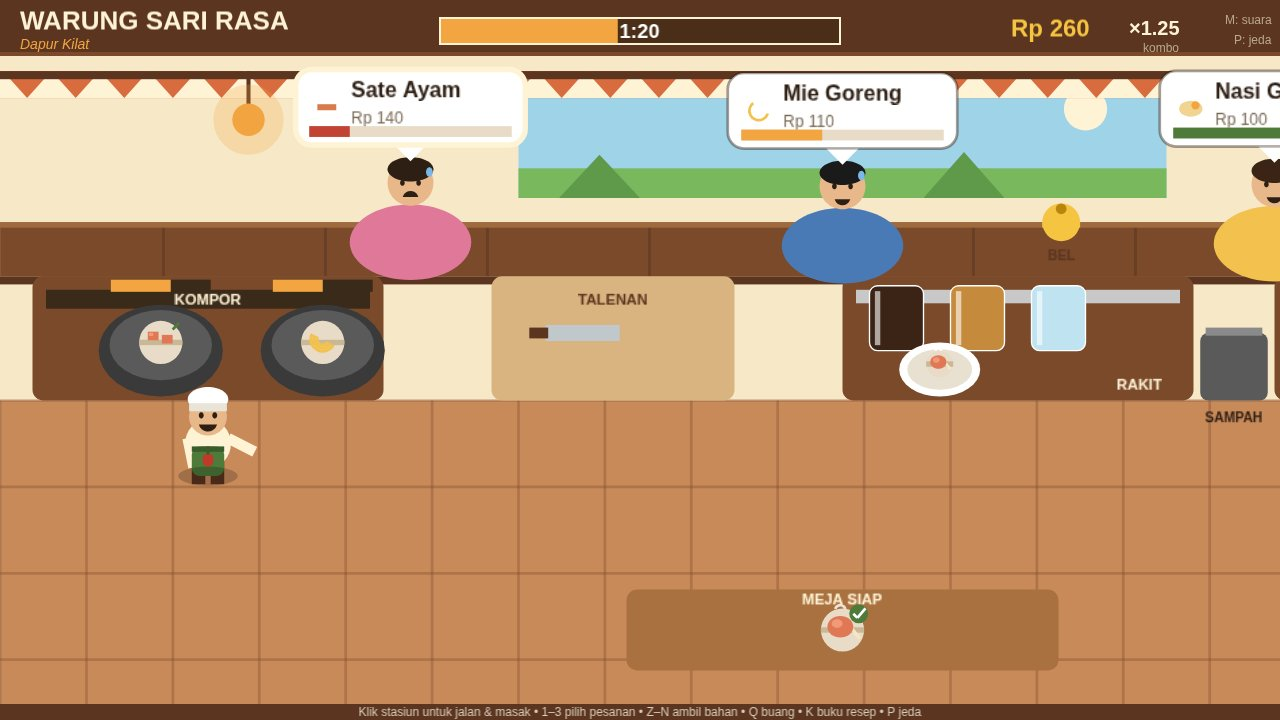
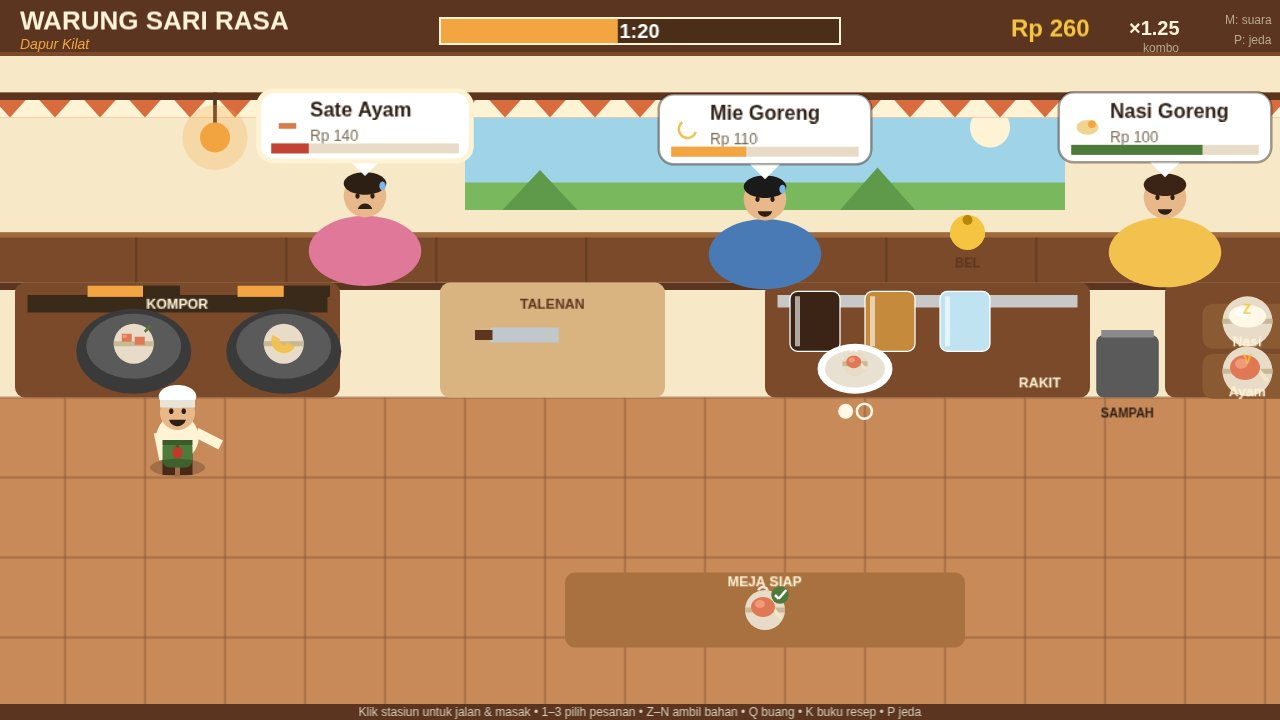
fix: READY tag + glow on window plates, bell click serves, burnGrace 5, shot-4 camera 1.25x, step dots on plating plate

diff --git a/game/src/render.js b/game/src/render.js
@@ -14,7 +14,7 @@ import { createCook, syncCook, createCustomers, syncCustomers } from './drawchar
 import { buildHUD, syncHUD } from './hud.js';
 import { recipeBookEntries } from './recipebook.js';
 import { burnerProgress } from './stove.js';
-import { requiredComponents } from './plating.js';
+import { requiredComponents, plateTargetDish } from './plating.js';
 import { gCircle, gEllipse, gRect, gRoundRect, gTriangle, gLine, gArc, gCircleStroke } from './gfx.js';
 
 const FONT = '"Trebuchet MS", Verdana, sans-serif';
@@ -154,6 +154,18 @@ export function buildScene(scene, state) {
     world.add(status);
     burnerBars.push({ bg, fill, status });
   }
+  // READY tags for the window plates (2 Texts, one per slot). Created once
+  // here, positioned + shown/hidden in syncScene (property sets only).
+  // Bold green, 14 px, white stroke so the tag reads at judge scale (60%).
+  const readyTags = [];
+  for (let i = 0; i < 2; i++) {
+    const t = scene.add.text(0, 0, 'READY', { fontFamily: FONT, fontSize: '14px', fontStyle: 'bold', color: '#2E7D32' });
+    t.setOrigin(0.5, 0.5);
+    t.setStroke('#FFFFFF', 2);
+    t.setVisible(false);
+    world.add(t);
+    readyTags.push(t);
+  }
   // Cook + customers.
   const cook = createCook(scene);
   world.add(cook.container);
@@ -190,7 +202,7 @@ export function buildScene(scene, state) {
   const hud = buildHUD(scene);
   const overlays = buildOverlays(scene);
   return {
-    world, bgG, dynG, burnerBars, cook, customers, particlePool, floatPool,
+    world, bgG, dynG, burnerBars, readyTags, cook, customers, particlePool, floatPool,
     hud, overlays, labels,
     lastDyn: {
       ticketIds: [-1, -1, -1], burnerItems: [false, false],
@@ -308,14 +320,40 @@ function redrawDynamic(view, state) {
       if (plate.finisher) {
         gCircle(g, cx + 22, cy - 12, 5, plate.finisher === 'kecap' ? '#3A1F10' : plate.finisher === 'sambal' ? '#C0392B' : '#7A5A2B');
       }
+      // Step dots under the plate (design §5): filled = steps done,
+      // outline = steps left. Total = the target dish's components +
+      // its finisher (if any); the picky skip is honoured when the plate
+      // is being built for a picky ticket. Dots sit below the plate —
+      // the finisher bottles stand directly above it.
+      const dish = plateTargetDish(state, plate);
+      if (dish) {
+        const ticket = state.tickets.find((t) => t && t.dish === dish);
+        const need = ticket ? requiredComponents(ticket) : null;
+        const total = need ? need.items.length + (need.finisher ? 1 : 0)
+          : RECIPES[dish].plate.length + (RECIPES[dish].finisher ? 1 : 0);
+        const filled = plate.items.length + (plate.finisher ? 1 : 0);
+        if (total > 0) {
+          const dotY = z.y + z.h + 12;
+          const gap = 15;
+          const x0 = cx - ((total - 1) * gap) / 2;
+          for (let d = 0; d < total; d++) {
+            const dx = x0 + d * gap;
+            if (d < filled) gCircle(g, dx, dotY, 6, '#FFF8E7');
+            else gCircleStroke(g, dx, dotY, 6, '#FFF8E7', 2);
+          }
+        }
+      }
     }
   });
-  // Window plates (READY) + a gold diamond marker above each.
+  // Window plates (READY): a soft green glow under the dish + the gold
+  // diamond marker above it. The "READY" text tag itself is a Text object
+  // (view.readyTags), positioned in syncScene — Graphics cannot draw text.
   state.windowPlates.forEach((wp, i) => {
     if (!wp) return;
     const z = ZONES.windowPlates[i];
     const cx = z.x + z.w / 2;
     const cy = z.y + z.h / 2;
+    gEllipse(g, cx, cy + 6, 64, 34, 'rgba(78,122,58,0.4)');
     drawDish(g, wp.dish, cx, cy + 4, 26);
     gTriangle(g, cx - 8, cy - 24, cx, cy - 34, cx + 8, cy - 24, PALETTE.gold);
     gTriangle(g, cx - 8, cy - 24, cx, cy - 14, cx + 8, cy - 24, PALETTE.gold);
@@ -414,6 +452,16 @@ export function syncScene(view, state, dt) {
     } else {
       bar.status.setText('');
     }
+  });
+  // READY tags above the window plates (property sets only). A tag shows
+  // exactly when its slot holds a finished plate; its position follows
+  // the plate zone, so it survives the shot-4 camera zoom (world child).
+  state.windowPlates.forEach((wp, i) => {
+    const tag = view.readyTags[i];
+    if (!wp) { tag.setVisible(false); return; }
+    const z = ZONES.windowPlates[i];
+    tag.setVisible(true);
+    tag.setPosition(z.x + z.w / 2, z.y - 18);
   });
   // Cook + customers (pose math lives in drawcharacter.js).
   syncCook(view.cook, state, state.time);

diff --git a/game/src/main.js b/game/src/main.js
@@ -231,6 +231,15 @@ function doServeWindowPlate(slot) {
   advancePrompt('serve');
 }
 
+// Ring the bell (the brass bell on the counter): serve the first finished
+// plate sitting at the window. If no plate is at the window yet, the bell
+// has nothing to serve — the toast tells the player to bring a plate.
+function doServeBell() {
+  const slot = state.windowPlates.findIndex((p) => p);
+  if (slot < 0) return showToast('Bawa piring jadi ke sini');
+  doServeWindowPlate(slot);
+}
+
 function doBin() {
   const item = state.cook.hands.find(Boolean);
   if (item) {
@@ -357,6 +366,12 @@ function handleClickAction(action) {
   } else if (action.type === 'windowPlate') {
     stand = ZONES.stand.window;
     run = () => doServeWindowPlate(action.index);
+  } else if (action.type === 'bell') {
+    // Ring the bell: serve the first finished plate at the window.
+    // The cook walks to the window stand point first (same as a
+    // window-plate click), so the bell works from anywhere on the floor.
+    stand = ZONES.stand.window;
+    run = () => doServeBell();
   } else if (action.type === 'station') {
     const s = action.station;
     if (s === 'stove') { stand = ZONES.stand.stove; run = () => doStove(); }

diff --git a/game/src/config.js b/game/src/config.js
@@ -10,8 +10,11 @@ export const CONFIG = {
   burnerCount: 2,
   plateSlots: 2,
   windowPlates: 2, // max finished plates that can sit at the serving window
-  burnGrace: 3, // seconds past done before an item burns (done at cookTime,
-  // burnt at cookTime + burnGrace — the lift window the player must hit)
+  burnGrace: 5, // seconds past done before an item burns (done at cookTime,
+  // burnt at cookTime + burnGrace — the lift window the player must hit).
+  // 5 s (not 3 s): the side view spreads the pantry far from the stove, so
+  // the prompted Route B (place nasi, fetch telur, chop, lift) needs the
+  // wider window — 3 s burned the nasi mid-walk. Still punishes slow play.
   comboCap: 2.0, // multiplier cap (reached at combo 5)
   comboStep: 0.25, // +0.25 multiplier per combo level
   // In-shift ramp by elapsed thirds (seconds 0–60, 60–120, 120–180).

diff --git a/game/src/shots.js b/game/src/shots.js
@@ -225,7 +225,10 @@ export function stageSecondAngle(state) {
   state.cook.animT = 0.3;
   state.cook.hands = [null, null];
   // Close-up camera on the grill + plating area (x 40-940, y 200-340).
-  state.camera = { x: 490, y: 270, zoom: 1.35 };
+  // Zoom 1.25 (not 1.35): at 1.35x the third bubble and the SAMPAH bin were
+  // sliced in half at the frame edge. At 1.25x, centre x=540, the visible
+  // x-range is ~28-1052, so all three bubbles + the bin fit whole.
+  state.camera = { x: 540, y: 270, zoom: 1.25 };
   return state;
 }
 
